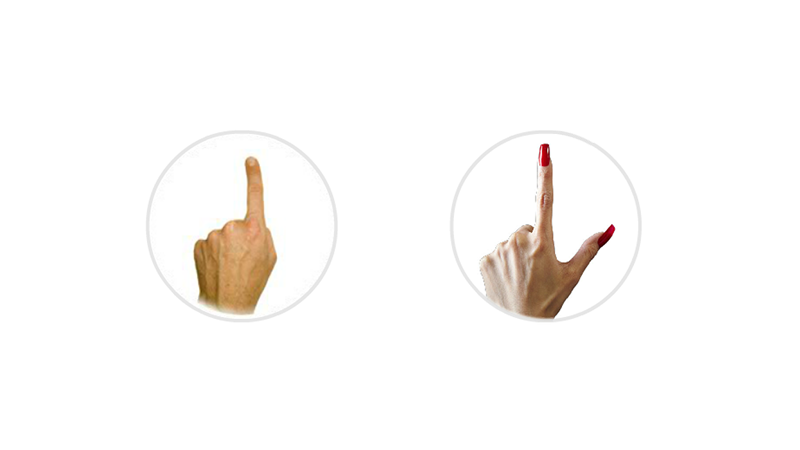
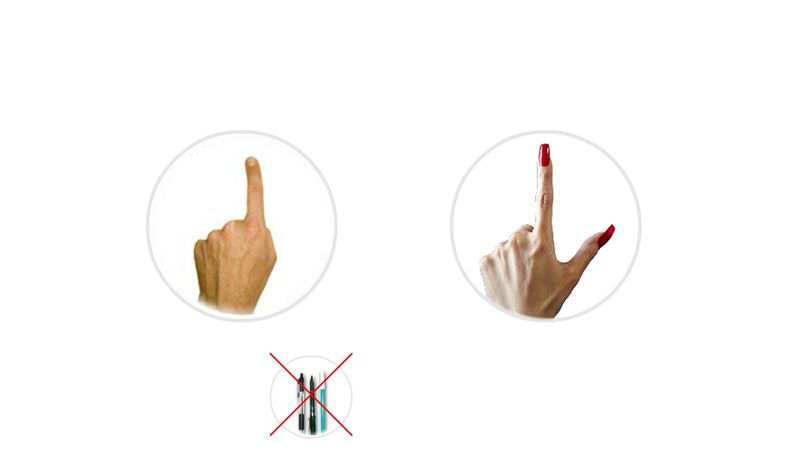
edits

Changed region(s): [[0.3438, 0.7778, 0.4375, 0.9956]]

diff --git a/lll-ui-southcarolina/dev/lessons/08X_online_validations_exercise/custom-activity-1.js b/lll-ui-southcarolina/dev/lessons/08X_online_validations_exercise/custom-activity-1.js
@@ -25,7 +25,7 @@ function startGame(completedCallback) {
     });
 
             
-            document.getElementById("guiholder").innerHTML = "<img src='lessons/shared/images/terminal_ticket_drag.jpg' />"
+            document.getElementById("guiholder2").innerHTML = "<img src='lessons/shared/images/terminal_ticket_drag.jpg' />"
             document.getElementById("ticket").style.display = 'inline';
             document.getElementById("dropzone").style.display = 'inline';
             document.getElementById("wrong").style.display = 'inline';
@@ -67,7 +67,7 @@ function startGame(completedCallback) {
         
         
         
-        if (counter == 1) {
+        if (counter == 34653476) {
                     p++;
             console.log('Interaction #2');
             swal({
@@ -104,17 +104,35 @@ function startGame(completedCallback) {
 
         }
 
-        if (counter == 2) {
+        if (counter == 1) {
                    p++;
             console.log('Interaction #3');//
           //change instructions
+            document.getElementById("guiholder2").style.display = 'none';
             document.getElementById("instructions").innerHTML = "<b>INSTRUCTIONS</b><br/>The Flex Terminal displays the validated amount.  Press Total.";
             document.getElementById("guiholder").innerHTML = "<img src='lessons/shared/images/online-validation-mini-sales.png' />";
-            document.getElementById("button_dgi").style.left = '886px';
-            document.getElementById("button_dgi").style.top = '457px';
+            document.getElementById("button_dgi").style.display = 'inline';
+            //document.getElementById("zoomed").style.height = 'auto';
+            document.getElementById("wrong").style.display = 'none';
+            document.getElementById("dropzone").style.display = 'none';
+            
+            document.getElementById("button_dgi").style.left = '635px';;
+
+            document.getElementById("button_dgi").style.top = '407px';
+            document.getElementById("button_dgi").style.width = '125px';
             document.getElementById("button_dgi").onclick = respond;
 
-
+          //kill DnD
+            //DnD
+            var dragtic = document.querySelectorAll("#ticket,#dropzone,#wrong");
+            [].forEach.call(dragtic, function(dt) {
+                dt.removeEventListener('dragstart', handleDragStart, false);
+                dt.removeEventListener('dragenter', handleDragEnter, false);
+                dt.removeEventListener('dragover', handleDragOver, false);
+                dt.removeEventListener('dragleave', handleDragLeave, false);
+                dt.removeEventListener('drop', handleDrop, false);
+                dt.removeEventListener('dragend', handleDragEnd, false);
+            });  
 
 
 
@@ -124,8 +142,8 @@ function startGame(completedCallback) {
      
         
 
- if(counter == 3){
-                    document.getElementById("guiholder").innerHTML = "<img src='lessons/shared/images/homescreen.png' />";
+ if(counter == 2){
+                    document.getElementById("guiholder").innerHTML = "<img src='lessons/shared/images/validation-confirmation.png' />";
                 
                     // calling completion
             finalScore = getCalculatedScore();

diff --git a/lll-ui-southcarolina/dev/lessons/08X_online_validations_exercise/custom-activity-1.html b/lll-ui-southcarolina/dev/lessons/08X_online_validations_exercise/custom-activity-1.html
@@ -3,12 +3,19 @@
    #container{
    height: 100%;
    width:100%;
-   padding: 50px;
+
    /* border: 2px dashed green;*/
    }
    #guiholder{
-   height: 600px;
-   width: 1051px;
+   height:450px;
+   width: 800px;
+   /* border: 2px dashed red; */
+   /*padding-left: 200px;*/
+   margin-top: 0px;
+   }
+      #guiholder2{
+   height:450px;
+   width: 800px;
    /* border: 2px dashed red; */
    padding-left: 200px;
    margin-top: 0px;
@@ -40,6 +47,7 @@
    text-align:left;
    border: 2px solid red;
    background-color:aliceblue;
+   z-index:5000;
    }
    #ticket{
    position:absolute;
@@ -50,14 +58,16 @@
    .draggable { width: 90px; height: 80px; padding: 5px; float: left; margin: 0 10px 10px 0; font-size: .9em; }
    #wrong{
    position:absolute;
-   top: 60px; left: 300px;
-   height: 100px; width: 300px;
-      /* border:10px solid green;*/
+	top: 0px;
+    left: 260px;
+    height: 100px;
+    width: 300px
    }
    #dropzone{
    position:absolute;
-   top: 120px; left:620px;
-   height: 200px; width: 200px;
+   top: 82px;
+    left: 520px;
+   height: 200px; width: 300px;
        /*border:10px solid red;*/
    }
    #zoomed{
@@ -92,9 +102,10 @@
    <div id="keypad_button"></div>
     <!-- <div id="hinter"></div> -->	
    <div id="button_dgi"></div>
-   <div id="guiholder">
+   <div id="guiholder2">
       <img src='lessons/shared/images/terminal_ticket_drag.jpg' />  
    </div>
+   <div id="guiholder"></div>
 </div>
 </div>
 <div id="preload">

diff --git a/lll-ui-southcarolina/dev/lessons/06X_sign_on_home_screen_exercise/custom-activity-1.html b/lll-ui-southcarolina/dev/lessons/06X_sign_on_home_screen_exercise/custom-activity-1.html
@@ -32,7 +32,7 @@ height: 8%;
 width: 4.5%;
 top: 28%;
 left: 65%;
-   	border: 4px solid green;
+
    	background-color:none;
    
    } 
